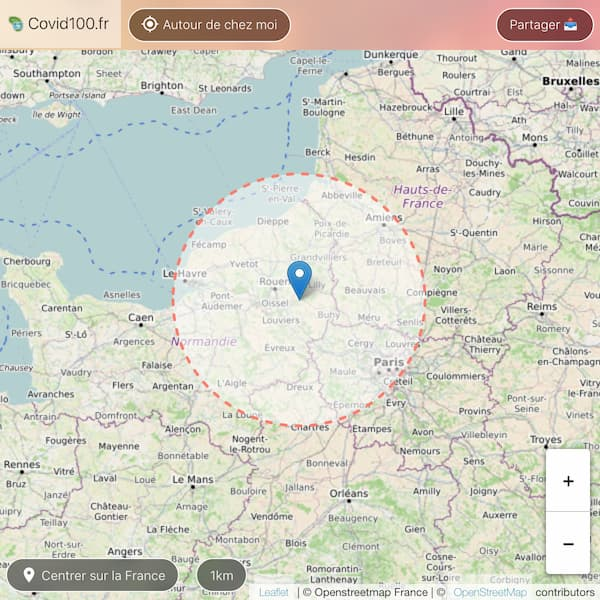
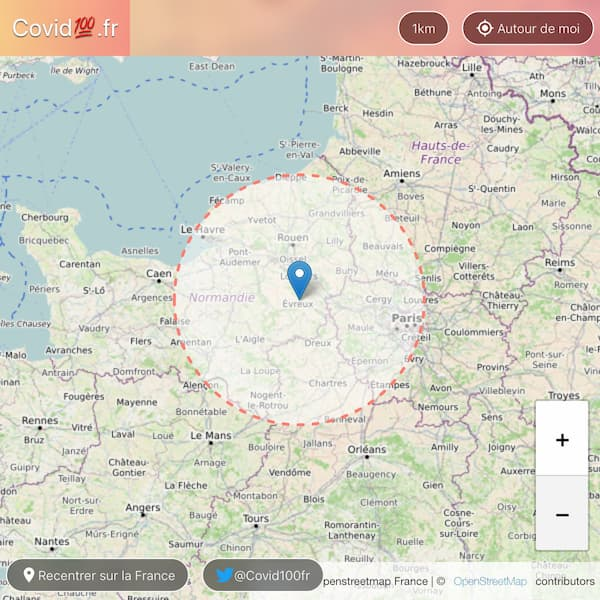
finish him

diff --git a/index.html b/index.html
@@ -9,8 +9,8 @@
     <link rel="apple-touch-icon" href="img/logo.jpg" />
     <link rel="icon" type="image/png" href="img/favicon-32x32.png" sizes="32x32" />
     <link rel="icon" type="image/png" href="img/favicon-16x16.png" sizes="16x16" />
-    <link rel="stylesheet" href="css/custom.css?pwa" />
-    <meta name="theme-color" content="#fafafa" />
+    <link rel="stylesheet" href="css/custom.css?final" />
+    <meta name="theme-color" content="#ffc371" />
     <link
       rel="stylesheet"
       href="https://unpkg.com/leaflet@1.6.0/dist/leaflet.css"
@@ -66,16 +66,17 @@
                   d="M12 8c-2.21 0-4 1.79-4 4s1.79 4 4 4 4-1.79 4-4-1.79-4-4-4zm8.94 3c-.46-4.17-3.77-7.48-7.94-7.94V1h-2v2.06C6.83 3.52 3.52 6.83 3.06 11H1v2h2.06c.46 4.17 3.77 7.48 7.94 7.94V23h2v-2.06c4.17-.46 7.48-3.77 7.94-7.94H23v-2h-2.06zM12 19c-3.87 0-7-3.13-7-7s3.13-7 7-7 7 3.13 7 7-3.13 7-7 7z"
                 />
               </svg>
-              <span class="hide-if-mobile">&nbsp;Autour de moi</span>
+              <span class="hidden-if-mobile">&nbsp;Autour de moi</span>
             </button>
-            <span id="gpsStatus"></span>
+
             <button type="button" data-share onclick="share()" aria-label="Partager la page">
-              <span class="hide-if-mobile">Partager</span>
+              <span class="hidden-if-mobile">Partager</span>
               📤
             </button>
           </div>
         </div>
       </nav>
+      <div id="gpsStatus" class="hidden"></div>
 
       <div id="map"></div>
       <footer>
@@ -87,7 +88,7 @@
               />
               <path d="M0 0h24v24H0z" fill="none" />
             </svg>
-            Recentrer&nbsp; <span class="hide-if-mobile"> sur la France</span>
+            Recentrer&nbsp; <span class="hidden-if-mobile"> sur la France</span>
           </button>
 
           <a href="https://twitter.com/Covid100fr" target="_blank" class="button">
@@ -133,7 +134,7 @@
       integrity="sha512-gZwIG9x3wUXg2hdXF6+rVkLF/0Vi9U8D2Ntg4Ga5I5BZpVkVxlJWbSQtXPSiUTtC0TjtGOmxa1AJPuV0CPthew=="
       crossorigin=""
     ></script>
-    <script src="js/main.js?zoom"></script>
+    <script src="js/main.js?final"></script>
 
     <script async src="https://www.googletagmanager.com/gtag/js?id=UA-4041493-17"></script>
     <script>

diff --git a/js/main.js b/js/main.js
@@ -92,29 +92,42 @@ function france() {
 france();
 
 function gps() {
-  document.getElementById("gpsStatus").innerText = "⌛...";
+  gpsLog("⌛...");
   navigator.geolocation.getCurrentPosition(
     function (position) {
       drawCircle({ latlng: { lat: position.coords.latitude, lng: position.coords.longitude } }, "🏠 Autour de chez vous" + ads, true);
-      document.getElementById("gpsStatus").innerText = "";
+      gpsLogHide();
     },
     function (error) {
       switch (error.code) {
         case error.PERMISSION_DENIED:
-          document.getElementById("gpsStatus").innerText = "Vous avez refusé la demande de localisation";
+          gpsErrorLog("Vous avez refusé la demande de localisation");
           break;
         case error.POSITION_UNAVAILABLE:
-          document.getElementById("gpsStatus").innerText = "Information localisation indisponible";
+          gpsErrorLog("Information localisation indisponible");
           break;
         case error.TIMEOUT:
-          document.getElementById("gpsStatus").innerText = "Temps d'attente trop long";
+          gpsErrorLog("Temps d'attente trop long");
           break;
         case error.UNKNOWN_ERROR:
-          document.getElementById("gpsStatus").innerText = "Bouh... erreur inconnue";
+          gpsErrorLog("Bouh... erreur inconnue");
           break;
       }
     }
   );
+}
+
+function gpsLog(msg) {
+  document.getElementById("gpsStatus").classList.remove("hidden");
+  document.getElementById("gpsStatus").innerHTML = msg;
+}
+function gpsErrorLog(msg) {
+  document.getElementById("gpsStatus").classList.remove("hidden");
+  document.getElementById("gpsStatus").innerHTML = msg + ' <button type="button" onclick="gpsLogHide()" class="invert small">ok</button>';
+}
+function gpsLogHide() {
+  document.getElementById("gpsStatus").classList.add("hidden");
+  document.getElementById("gpsStatus").innerHTML = "";
 }
 
 function share() {

diff --git a/css/custom.css b/css/custom.css
@@ -111,6 +111,12 @@ button,
   fill: black;
 }
 
+.small {
+  padding: 0.25em;
+  margin: 0;
+  line-height: 1;
+}
+
 button svg,
 .button svg {
   height: 18px;
@@ -136,11 +142,13 @@ footer {
 }
 
 #gpsStatus {
-  white-space: nowrap;
-  overflow-y: auto;
-  font-size: 14px;
-  max-width: 100px;
-  display: inline-block;
+  position: absolute;
+  top: 4em;
+  z-index: 2;
+  padding: 0.5em 1em;
+  background: white;
+  right: 0.5em;
+  font-size: 0.8em;
 }
 
 .leaflet-popup-content {
@@ -152,7 +160,7 @@ footer {
   padding: 0;
 }
 
-.hide {
+.hidden {
   display: none;
 }
 
@@ -166,7 +174,7 @@ footer {
 }
 
 @media (max-width: 400px) {
-  .hide-if-mobile {
+  .hidden-if-mobile {
     display: none;
   }
 }
